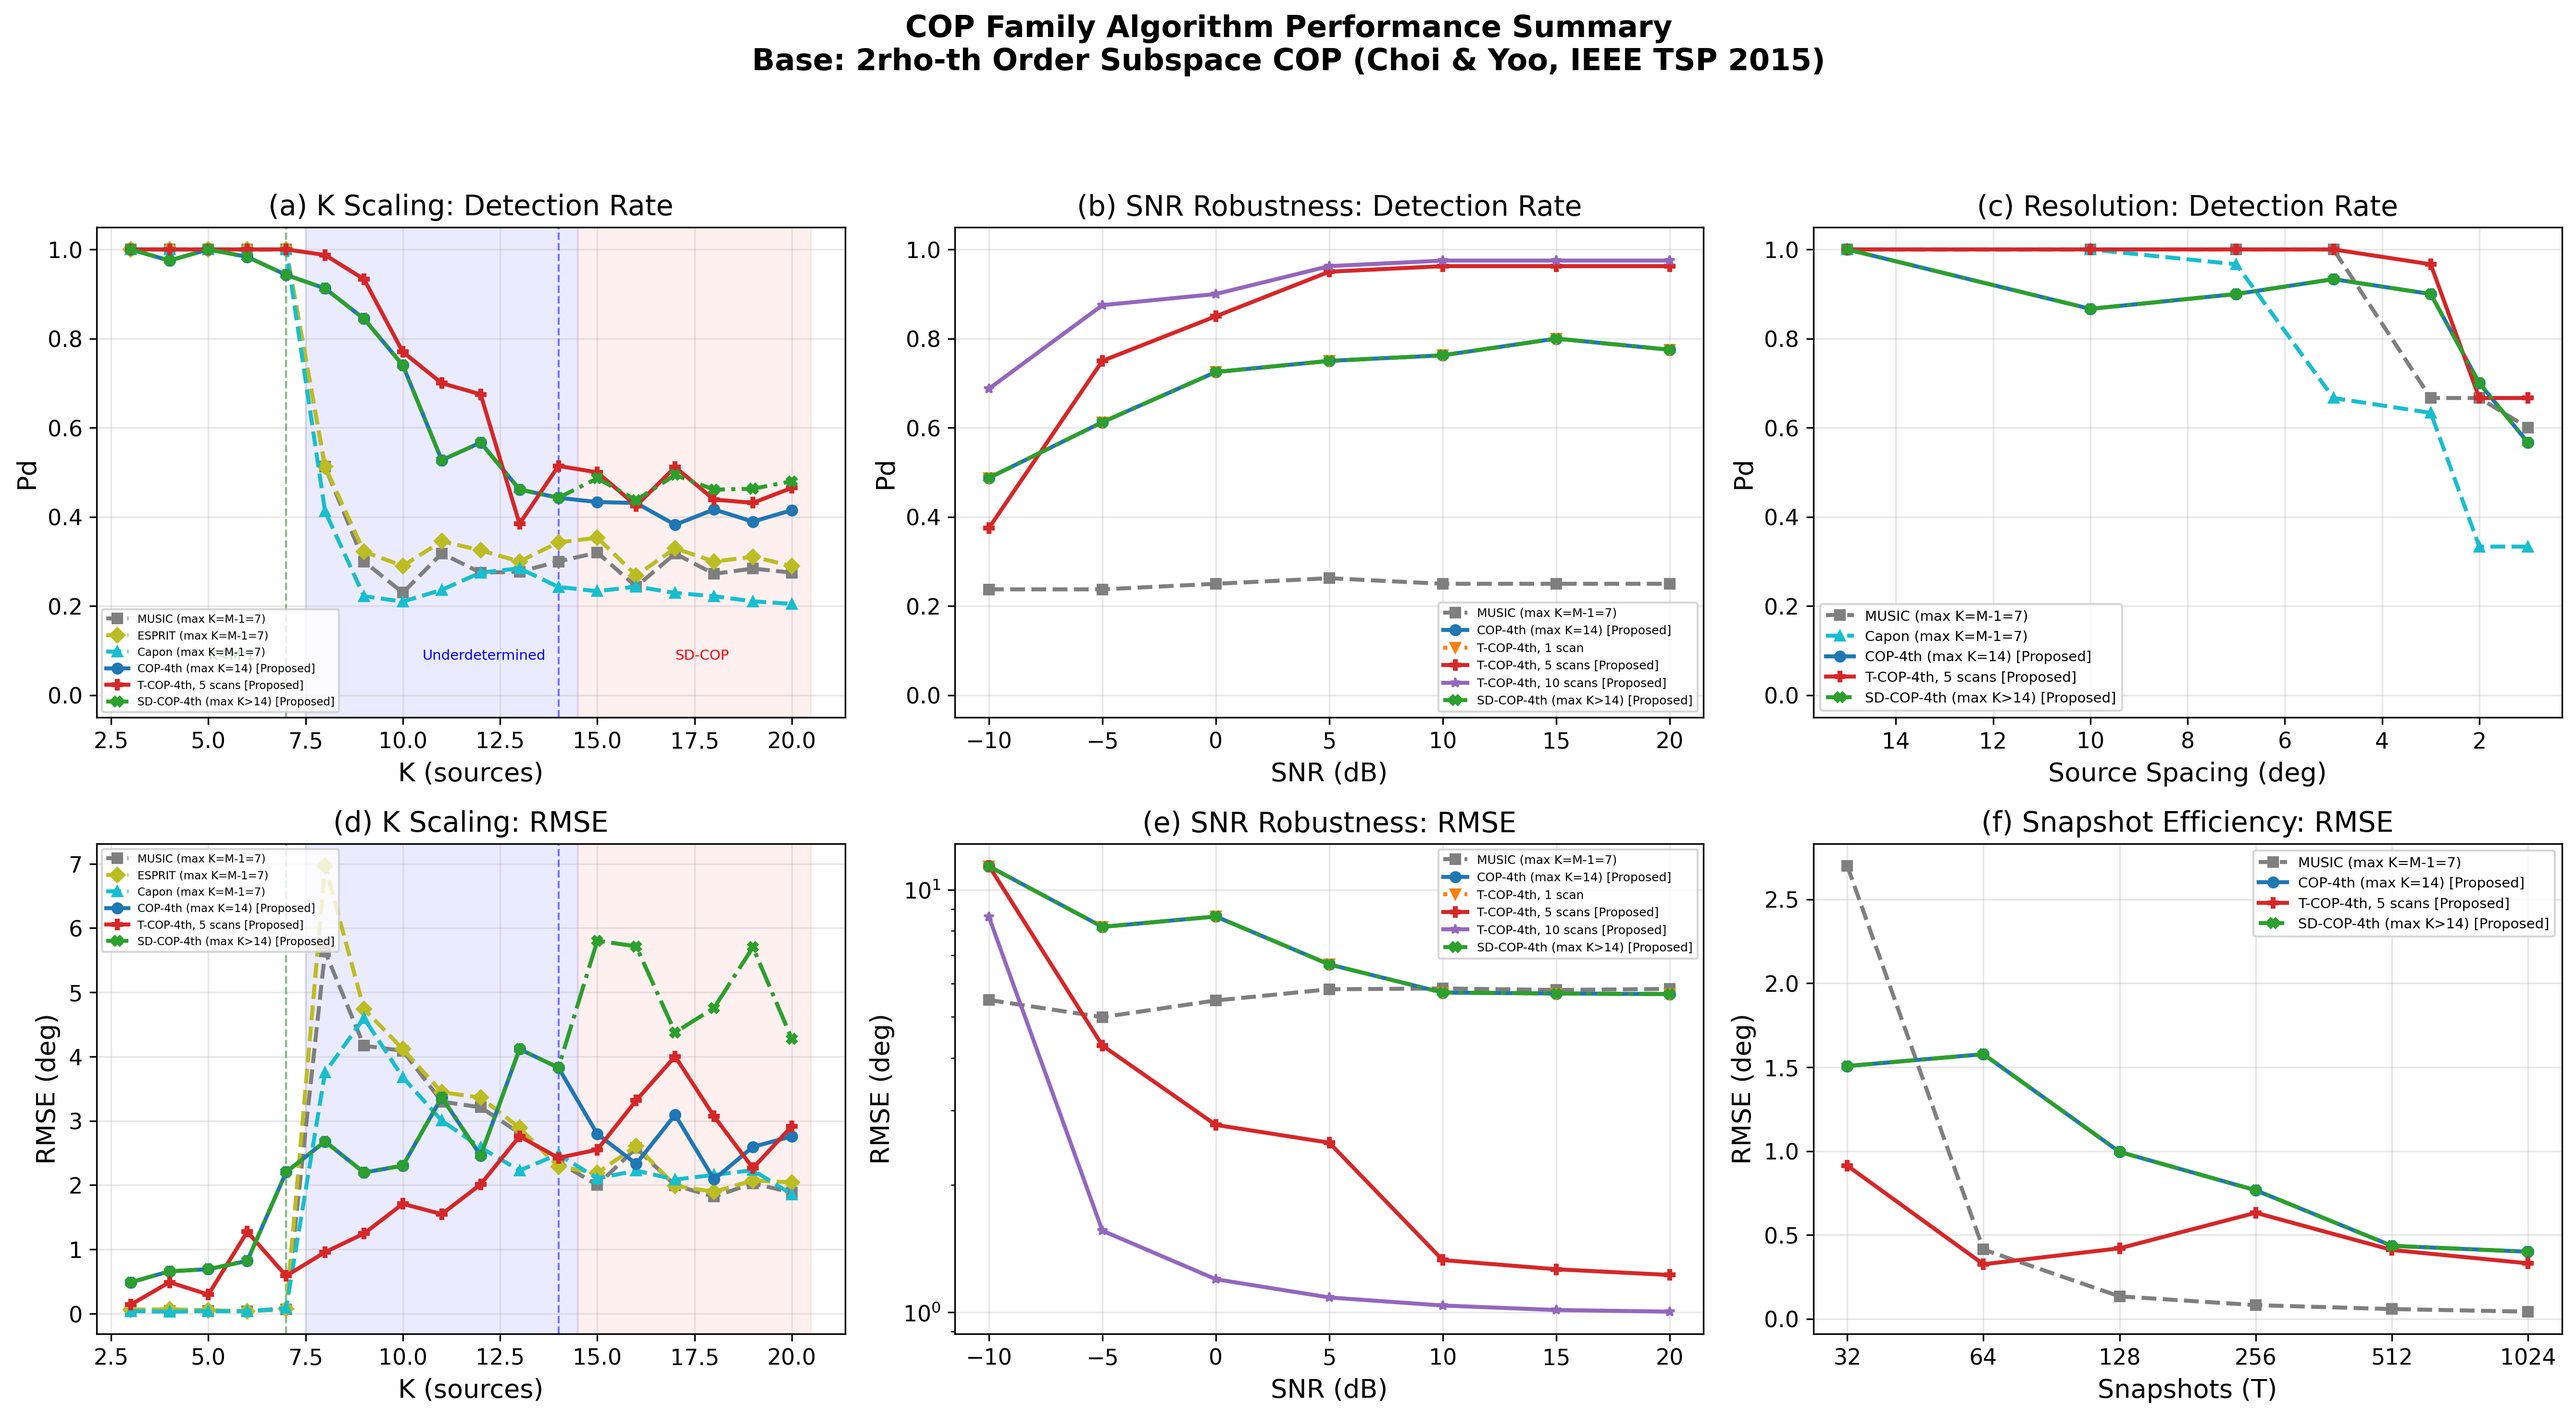
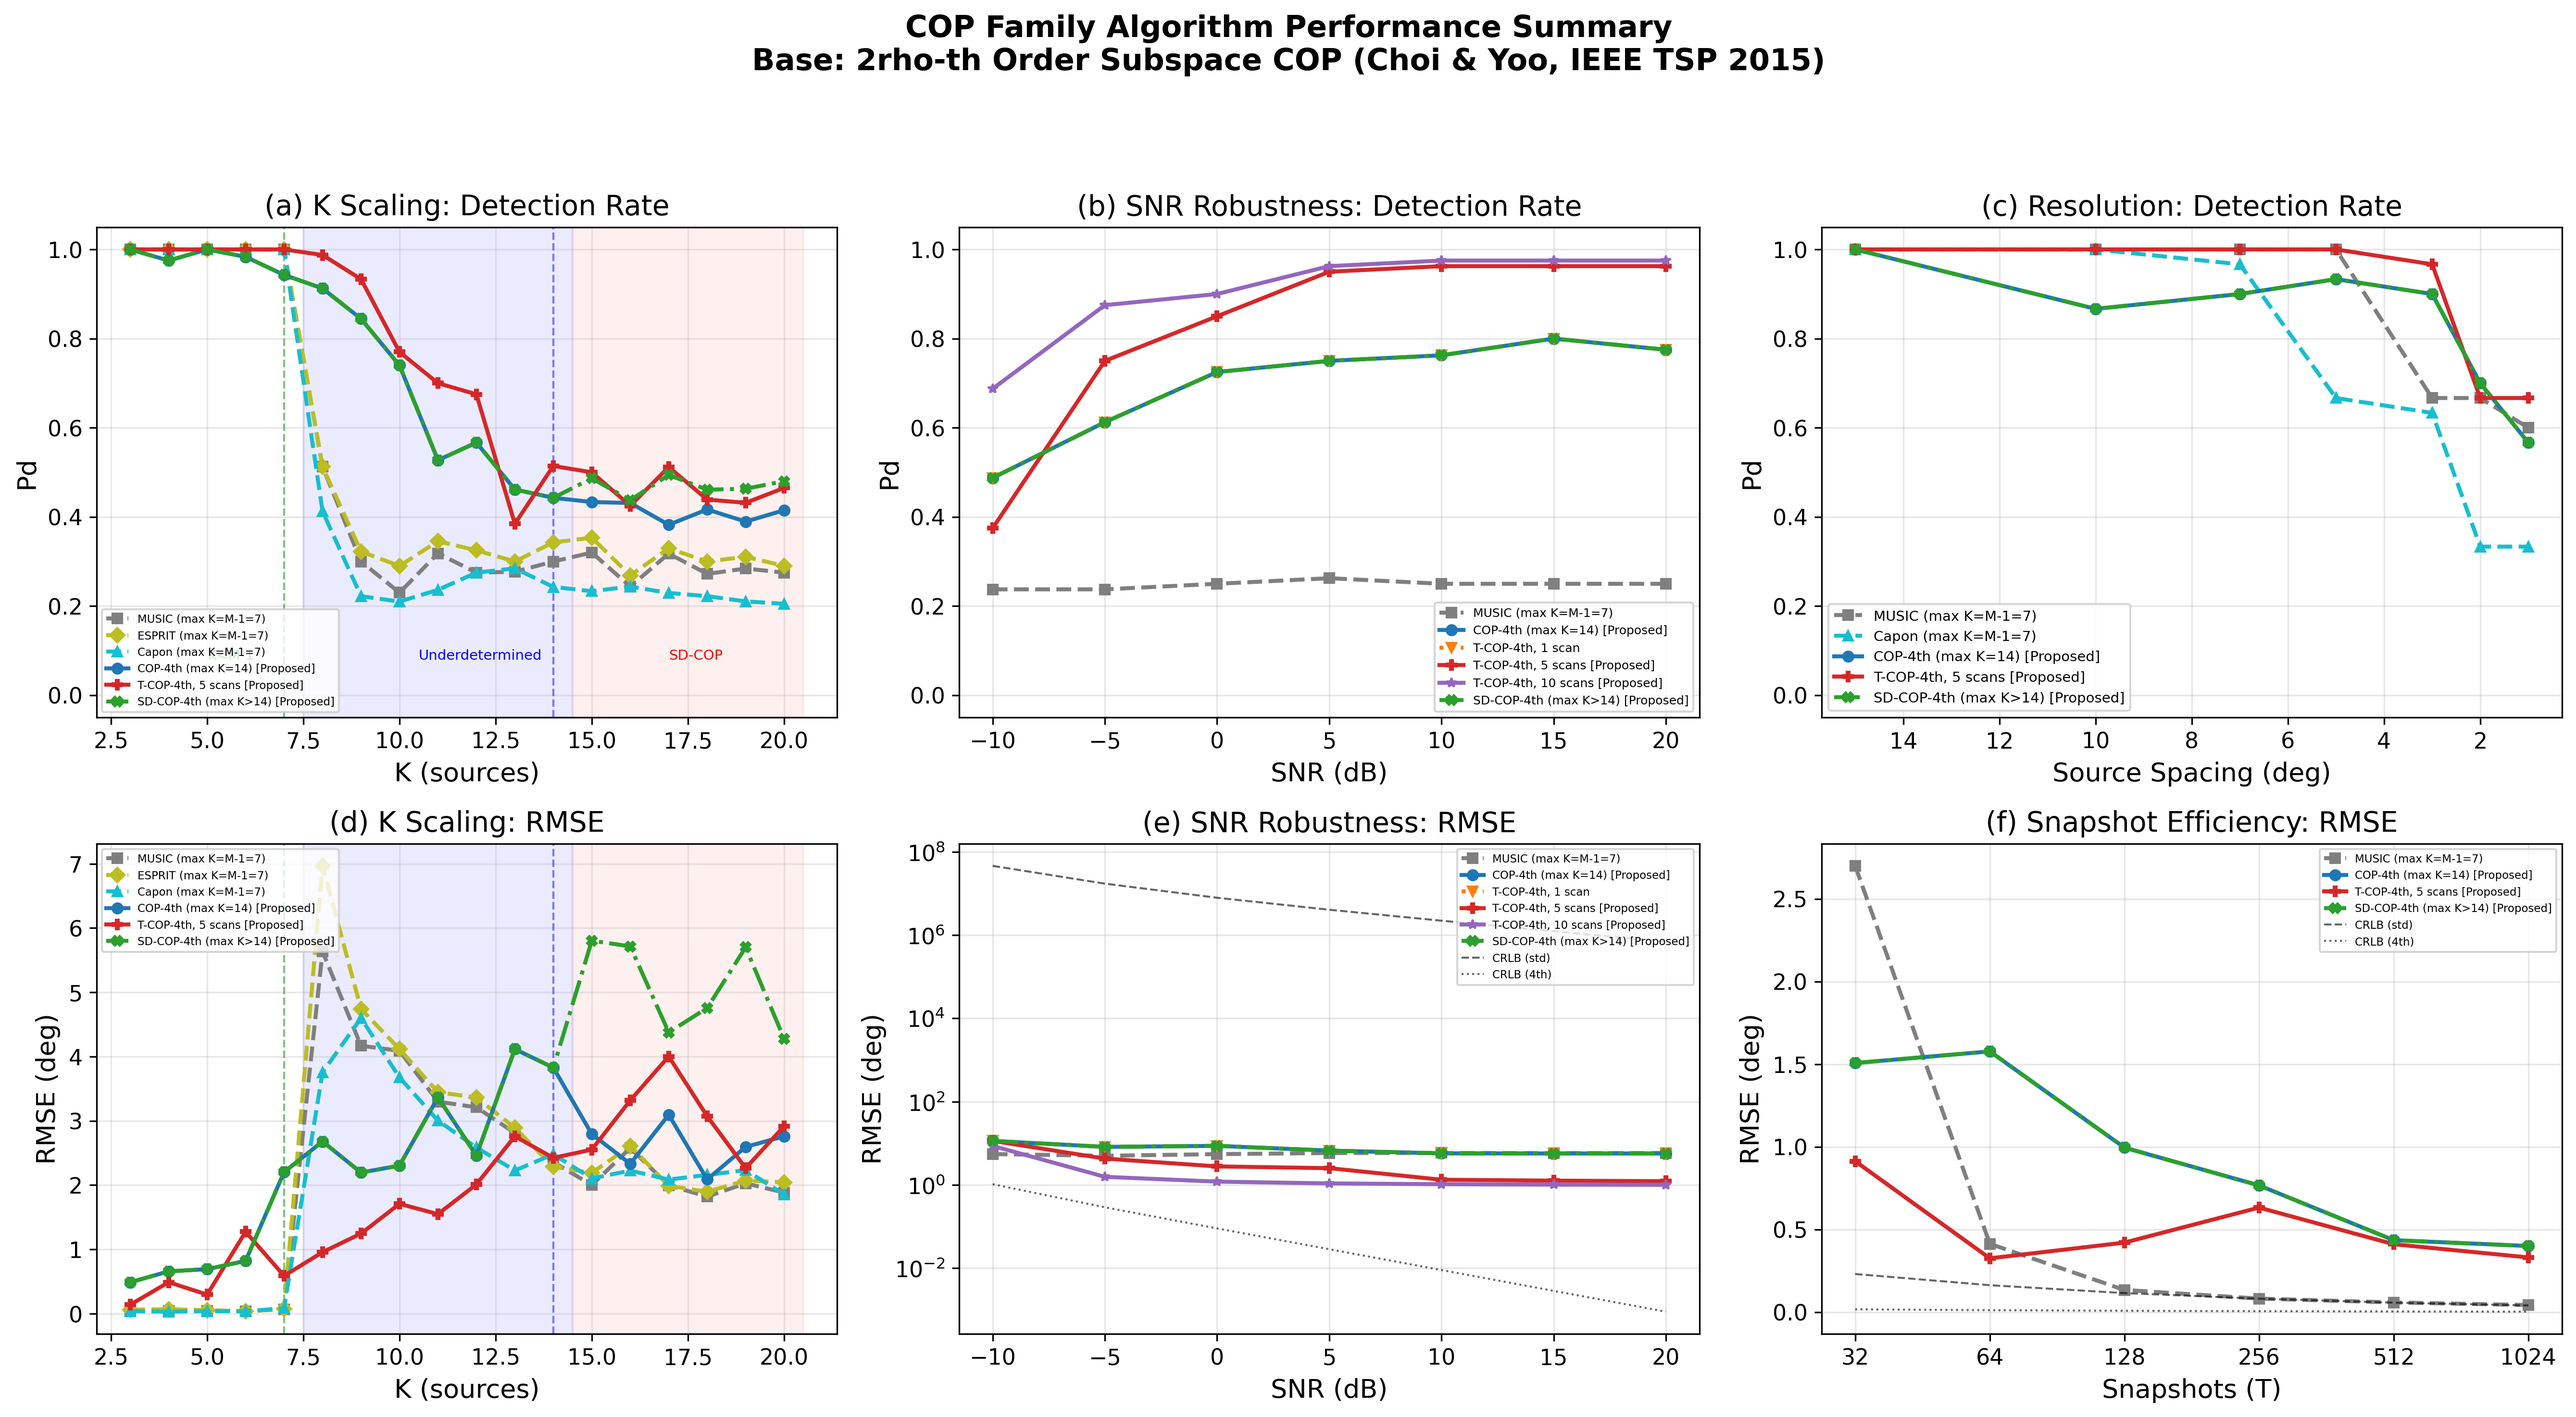
Add exact CRLB curves to all RMSE benchmark plots

diff --git a/tests/generate_benchmark_plots.py b/tests/generate_benchmark_plots.py
@@ -28,6 +28,7 @@ from iron_dome_sim.signal_model.signal_generator import generate_snapshots
 from iron_dome_sim.doa import (SubspaceCOP, TemporalCOP, SequentialDeflationCOP,
                                 MUSIC, ESPRIT, Capon)
 from iron_dome_sim.eval.metrics import rmse_doa, detection_rate
+from iron_dome_sim.eval.crlb import crlb_rmse, crlb_stochastic, crlb_cop
 
 # ============================================================
 # Style configuration
@@ -467,12 +468,22 @@ def plot_snr(snr_values, results):
     plt.close(fig)
     print(f"  Saved fig3_snr_pd.png")
 
-    # Fig 4: RMSE vs SNR
+    # Fig 4: RMSE vs SNR with exact CRLB
     fig, ax = plt.subplots(figsize=(8, 5))
     for name, data in results.items():
         s = ALG_STYLES[name]
         ax.plot(snr_values, data['rmse'], color=s[0], marker=s[1],
                 linestyle=s[2], label=s[3])
+
+    # Add exact CRLB curves
+    snr_fine = np.array(snr_values, dtype=float)
+    true_doas = np.radians(np.linspace(-50, 50, 8))  # K=8
+    crlb_std = crlb_rmse(true_doas, 8, snr_fine, 128, rho=1)
+    crlb_ho = crlb_rmse(true_doas, 8, snr_fine, 128, rho=2)
+    ax.plot(snr_values, crlb_std, 'k--', linewidth=1.5, alpha=0.7,
+            label='CRLB (standard)')
+    ax.plot(snr_values, crlb_ho, 'k:', linewidth=1.5, alpha=0.7,
+            label='CRLB (4th-order)')
 
     ax.set_xlabel('SNR (dB)')
     ax.set_ylabel('RMSE (degrees)')
@@ -518,7 +529,7 @@ def plot_resolution(spacing_values, results):
 
 
 def plot_snapshots(T_values, results):
-    """Fig 6: Snapshot efficiency (now includes SD-COP)."""
+    """Fig 6: Snapshot efficiency (now includes SD-COP + CRLB)."""
     fig, (ax1, ax2) = plt.subplots(1, 2, figsize=(14, 5))
 
     for name, data in results.items():
@@ -527,6 +538,23 @@ def plot_snapshots(T_values, results):
                      linestyle=s[2], label=s[3], base=2)
         ax2.semilogx(T_values, data['rmse'], color=s[0], marker=s[1],
                      linestyle=s[2], label=s[3], base=2)
+
+    # Add exact CRLB curves to RMSE plot (ax2)
+    true_doas = np.radians(np.linspace(-40, 40, 6))  # K=6, same as collect_snapshots
+    crlb_std_vals = []
+    crlb_ho_vals = []
+    for T in T_values:
+        crb, _ = crlb_stochastic(true_doas, 8, 10, T)  # M=8, SNR=10dB
+        mean_crb = np.mean(crb)
+        crlb_std_vals.append(np.degrees(np.sqrt(mean_crb)) if mean_crb < np.inf else np.inf)
+        crb, _ = crlb_cop(true_doas, 8, 10, T, rho=2)
+        mean_crb = np.mean(crb)
+        crlb_ho_vals.append(np.degrees(np.sqrt(mean_crb)) if mean_crb < np.inf else np.inf)
+
+    ax2.semilogx(T_values, crlb_std_vals, 'k--', linewidth=1.5, alpha=0.7,
+                 label='CRLB (standard)', base=2)
+    ax2.semilogx(T_values, crlb_ho_vals, 'k:', linewidth=1.5, alpha=0.7,
+                 label='CRLB (4th-order)', base=2)
 
     ax1.set_xlabel('Number of Snapshots (T)')
     ax1.set_ylabel('Detection Rate (Pd)')
@@ -751,30 +779,54 @@ def plot_combined_summary(k_data, snr_data, res_data, snap_data):
     ax.set_title('(d) K Scaling: RMSE')
     ax.legend(fontsize=5.5, loc='upper left')
 
-    # (1,1) SNR RMSE
+    # (1,1) SNR RMSE with CRLB
     ax = axes[1, 1]
     for name, data in snr_results.items():
         s = ALG_STYLES[name]
         ax.plot(snr_values, data['rmse'], color=s[0], marker=s[1],
                 linestyle=s[2], label=s[3], markersize=5)
+    # CRLB for SNR plot: M=8, K=8, T=128
+    snr_fine = np.array(snr_values, dtype=float)
+    snr_doas = np.radians(np.linspace(-50, 50, 8))
+    crlb_std_snr = crlb_rmse(snr_doas, 8, snr_fine, 128, rho=1)
+    crlb_ho_snr = crlb_rmse(snr_doas, 8, snr_fine, 128, rho=2)
+    ax.plot(snr_values, crlb_std_snr, 'k--', linewidth=1.0, alpha=0.6,
+            label='CRLB (std)', markersize=3)
+    ax.plot(snr_values, crlb_ho_snr, 'k:', linewidth=1.0, alpha=0.6,
+            label='CRLB (4th)', markersize=3)
     ax.set_xlabel('SNR (dB)')
     ax.set_ylabel('RMSE (deg)')
     ax.set_title('(e) SNR Robustness: RMSE')
     ax.set_yscale('log')
-    ax.legend(fontsize=6, loc='upper right')
+    ax.legend(fontsize=5.5, loc='upper right')
 
-    # (1,2) Snapshots RMSE
+    # (1,2) Snapshots RMSE with CRLB
     ax = axes[1, 2]
     for name, data in snap_results.items():
         s = ALG_STYLES[name]
         ax.semilogx(T_values, data['rmse'], color=s[0], marker=s[1],
                      linestyle=s[2], label=s[3], markersize=5, base=2)
+    # CRLB for snapshot plot: M=8, K=6, SNR=10dB
+    snap_doas = np.radians(np.linspace(-40, 40, 6))
+    crlb_std_snap = []
+    crlb_ho_snap = []
+    for T in T_values:
+        crb, _ = crlb_stochastic(snap_doas, 8, 10, T)
+        mean_crb = np.mean(crb)
+        crlb_std_snap.append(np.degrees(np.sqrt(mean_crb)) if mean_crb < np.inf else np.inf)
+        crb, _ = crlb_cop(snap_doas, 8, 10, T, rho=2)
+        mean_crb = np.mean(crb)
+        crlb_ho_snap.append(np.degrees(np.sqrt(mean_crb)) if mean_crb < np.inf else np.inf)
+    ax.semilogx(T_values, crlb_std_snap, 'k--', linewidth=1.0, alpha=0.6,
+                label='CRLB (std)', base=2, markersize=3)
+    ax.semilogx(T_values, crlb_ho_snap, 'k:', linewidth=1.0, alpha=0.6,
+                label='CRLB (4th)', base=2, markersize=3)
     ax.set_xlabel('Snapshots (T)')
     ax.set_ylabel('RMSE (deg)')
     ax.set_title('(f) Snapshot Efficiency: RMSE')
     ax.set_xticks(T_values)
     ax.set_xticklabels([str(t) for t in T_values])
-    ax.legend(fontsize=7, loc='upper right')
+    ax.legend(fontsize=5.5, loc='upper right')
 
     fig.suptitle('COP Family Algorithm Performance Summary\n'
                  'Base: 2rho-th Order Subspace COP (Choi & Yoo, IEEE TSP 2015)',
